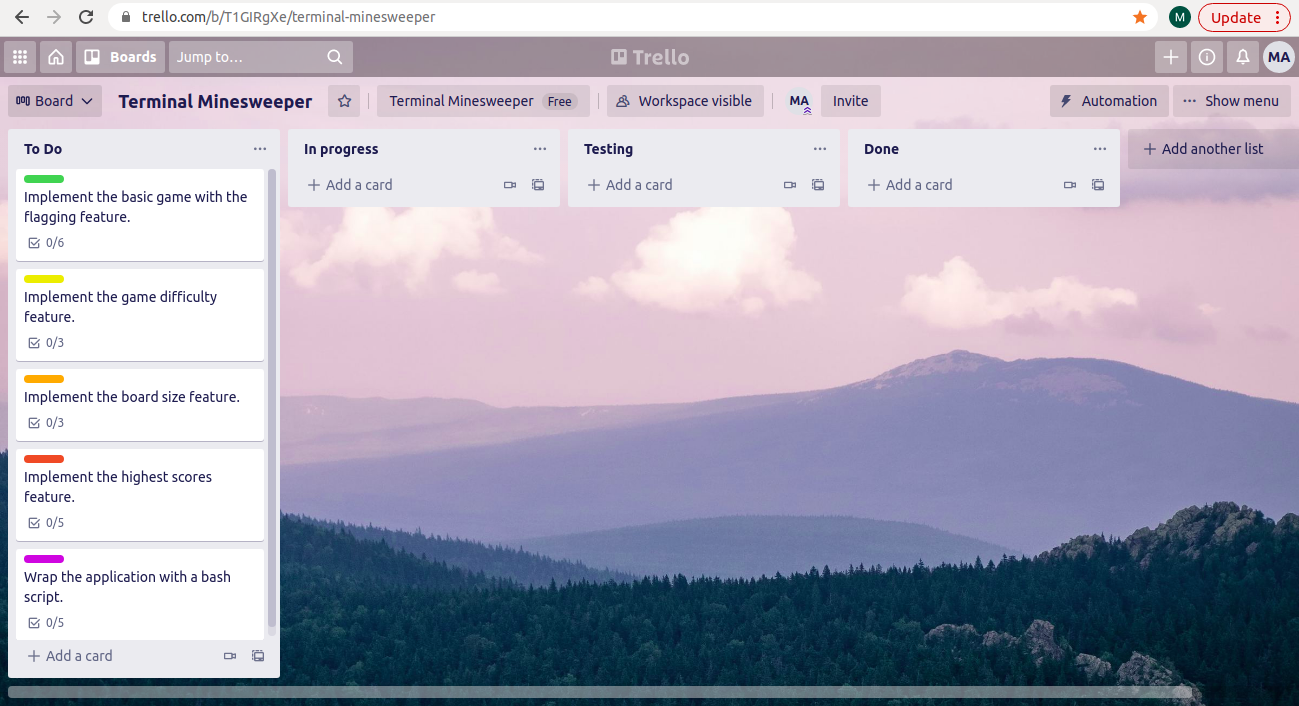
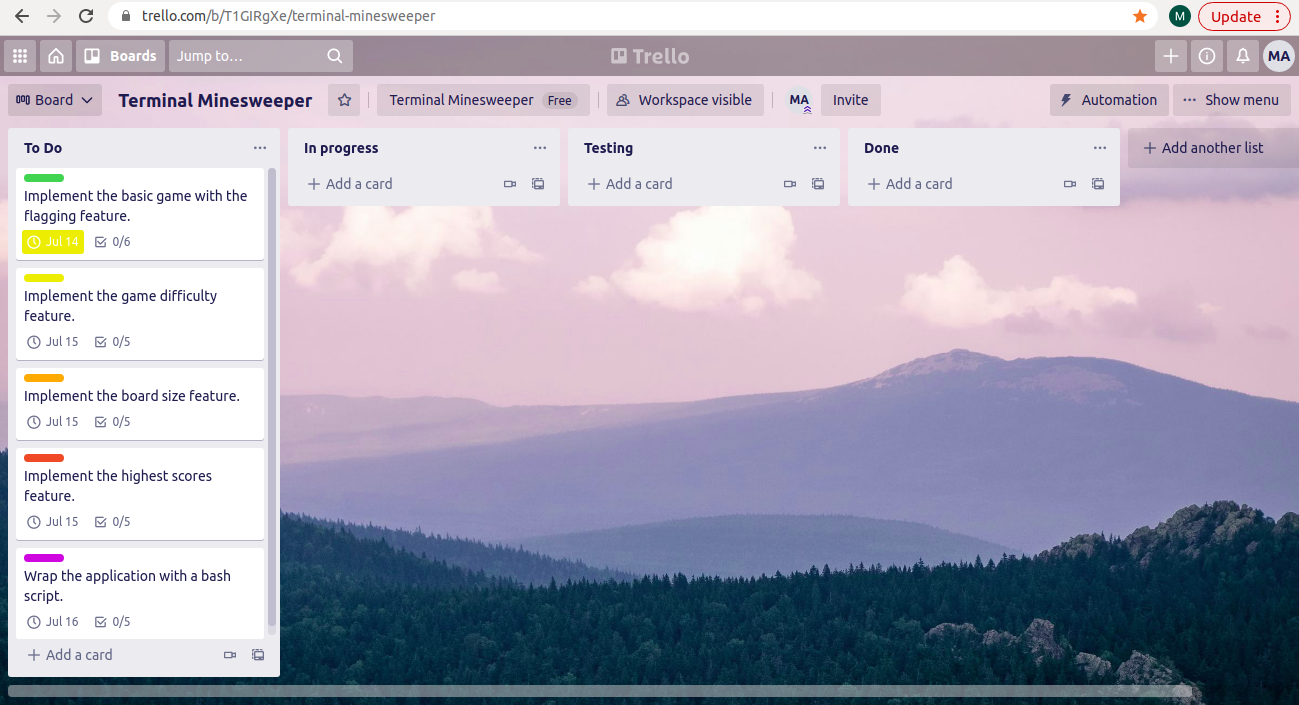
modify implementation plan and Trello screenshots

diff --git a/implementation-plan.md b/implementation-plan.md
@@ -1,7 +1,7 @@
 # Implementation plan:
 ### The below table lists all the tasks needed to finalize the application with all the proposed features. The tasks are ordered based on priority from highest to lowest.
 
-| Item | Feature | Due Date |
+| Item/Task | Feature/Scope | Due Date |
 | ---- | ------- | -------- |
 | Create the basic code that creates a board with randomly positioned mines inside | Implement the basic game with the flagging feature | July 14 |
 | The application should display the board in the terminal | Implement the basic game with the flagging feature | July 14 |
@@ -11,10 +11,14 @@
 | The application should allow the user to flag or unflag boxes in the board. | Implement the basic game with the flagging feature | July 14 |
 | The application should ask the user for the desired difficulty at the start | Implement the game difficulty feature | July 15 |
 | The application should validate the choice, print an error message if the user inputs wrong choice and ask the user to choose again | Implement the game difficulty feature | July 15 |
-| The application should set the number of mines based on the chosen difficulty | Implement the game difficulty feature | July 15 |
+| If the user chooses the "Beginner" mode, the application should add 10 mines to the board | Implement the game difficulty feature | July 15 |
+| If the user chooses the "Intermediate" mode, the application should add 40 mines to the board | Implement the game difficulty feature | July 15 |
+| If the user chooses the "Expert" mode, the application should add 99 mines to the board | Implement the game difficulty feature | July 15 |
 | The application should ask the user for the desired board size | Implement the board size feature | July 15 |
 | The application should validate the choice, print an error message if the user inputs wrong choice and ask the user to choose again | Implement the board size feature | July 15 |
-| The application should create the board based on the chosen size | Implement the board size feature | July 15 |
+| If the difficulty mode is "Beginner", the allowed sizes are 8 × 8, 9 × 9, or 10 × 10 | Implement the board size feature | July 15 |
+| If the difficulty mode is "Intermediate", the allowed sizes are 13 × 15 or 16 × 16 | Implement the board size feature | July 15 |
+| If the difficulty mode is "Expert", the size is always 16 × 30 | Implement the board size feature | July 15 |
 | Let the application track the time taken to finish the game | Implement the highest scores feature | July 15 |
 | When the user wins a game, fetch the highest score for the current game size and difficulty from the scores file | Implement the highest scores feature | July 15 |
 | Update the scores file If the user won the game in less time than the highest score | Implement the highest scores feature | July 15 |
